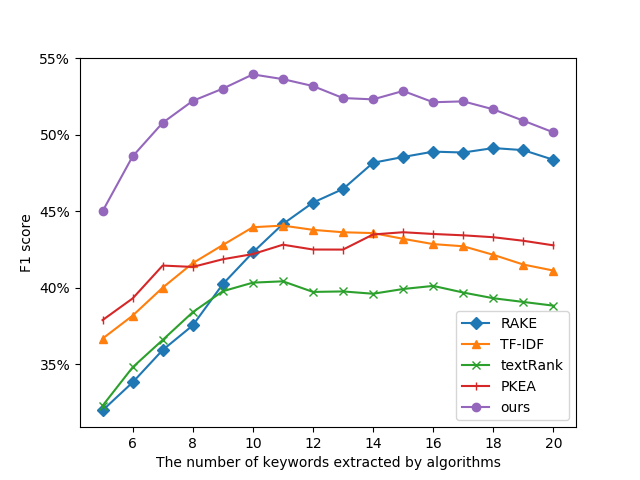
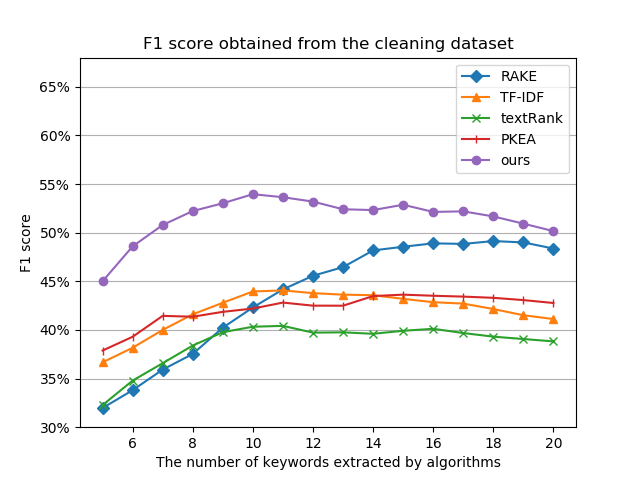
2019.6.17 20:36

diff --git a/scripts/drawFigure.py b/scripts/drawFigure.py
@@ -5,18 +5,21 @@ x = [i for i in range(5,21)]
 RAKE_y, TF_IDF_y, textRank_y, PKEA_y, ours_y = main()
 assert len(x) == len(RAKE_y)
 fig = plt.figure()
-plt.plot(x, RAKE_y, marker='D', label='RAKE')
-plt.plot(x, TF_IDF_y, marker='^', label='TF-IDF')
-plt.plot(x, textRank_y, marker='x', label='textRank')
-plt.plot(x, PKEA_y, marker='|', label='PKEA')
-plt.plot(x, ours_y, marker='o', label='ours')
+plt.plot(x, RAKE_y, marker='D', label='RAKE', lw=2)
+plt.plot(x, TF_IDF_y, marker='^', label='TF-IDF', lw=2)
+plt.plot(x, textRank_y, marker='x', label='textRank', lw=2)
+plt.plot(x, PKEA_y, marker='|', label='PKEA', lw=2)
+plt.plot(x, ours_y, marker='o', label='ours', lw=2)
 def to_percent(temp, position):
     return '%1.0f'%(temp) + '%'
 plt.gca().yaxis.set_major_formatter(FuncFormatter(to_percent))
 plt.xlabel('The number of keywords extracted by algorithms')
 plt.ylabel('F1 score')
-plt.legend()
-filename = r'D:\PycharmProjects\KeywordExtraction\data\电话F1.png'
+plt.title('F1 score obtained from the telephone communication dataset')
+plt.legend(loc='lower right')
+plt.ylim((30, 69))
+plt.grid(axis="y")
+filename = r'D:\PycharmProjects\KeywordExtraction\data\电话F1_line.png'
 plt.savefig(filename)
 plt.show()
 
